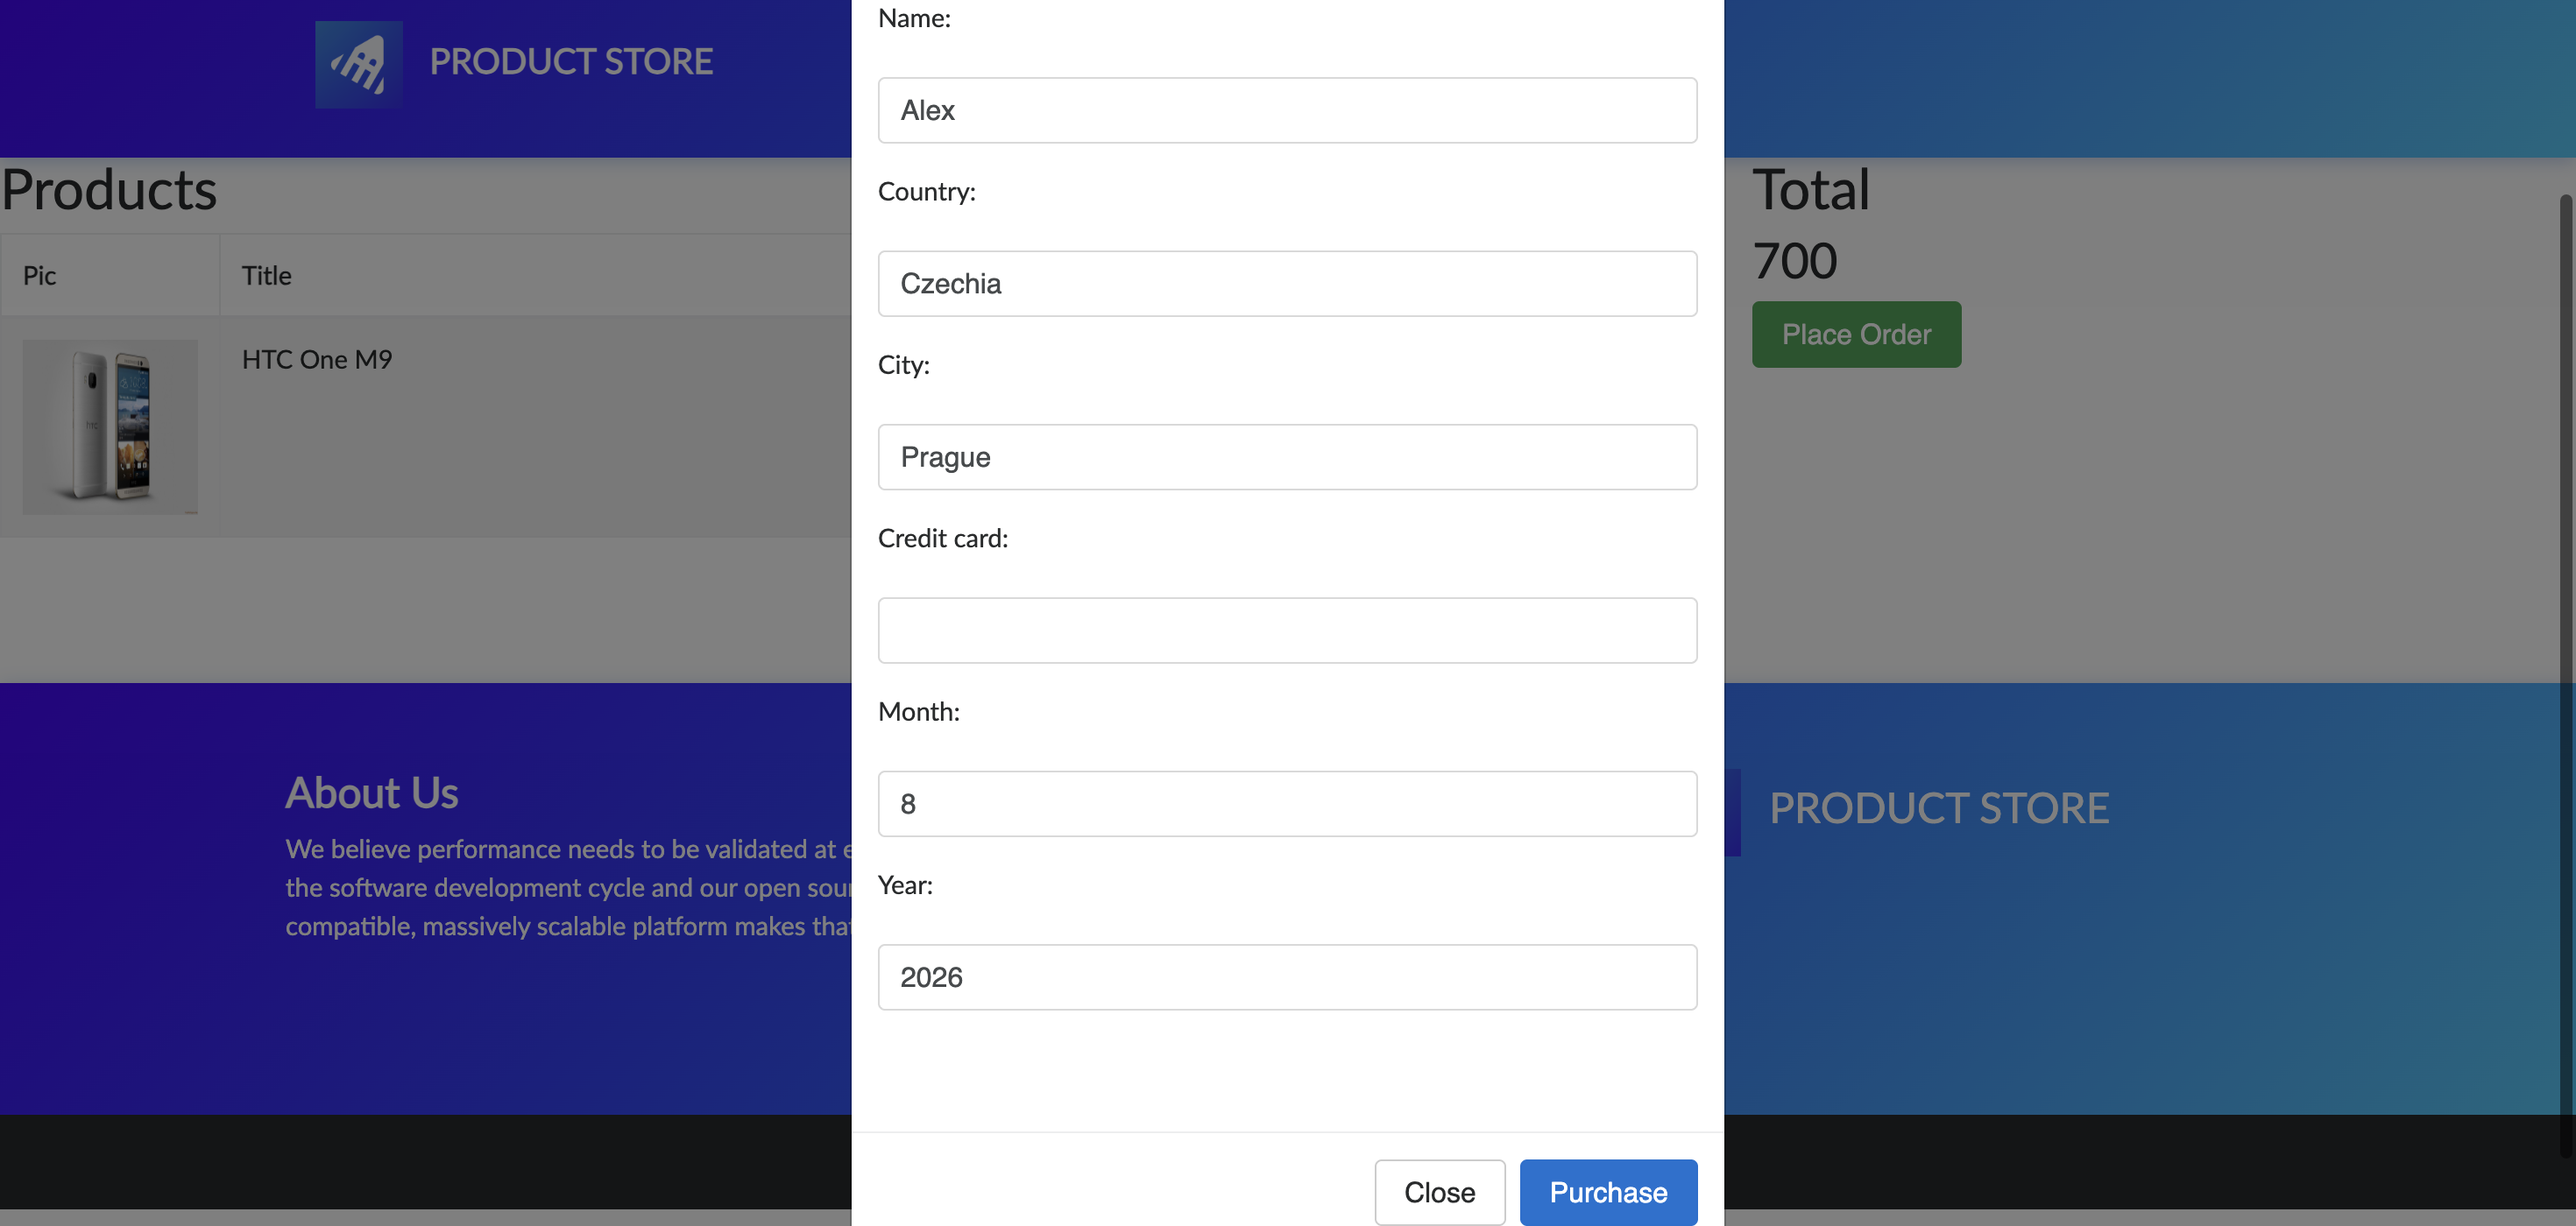
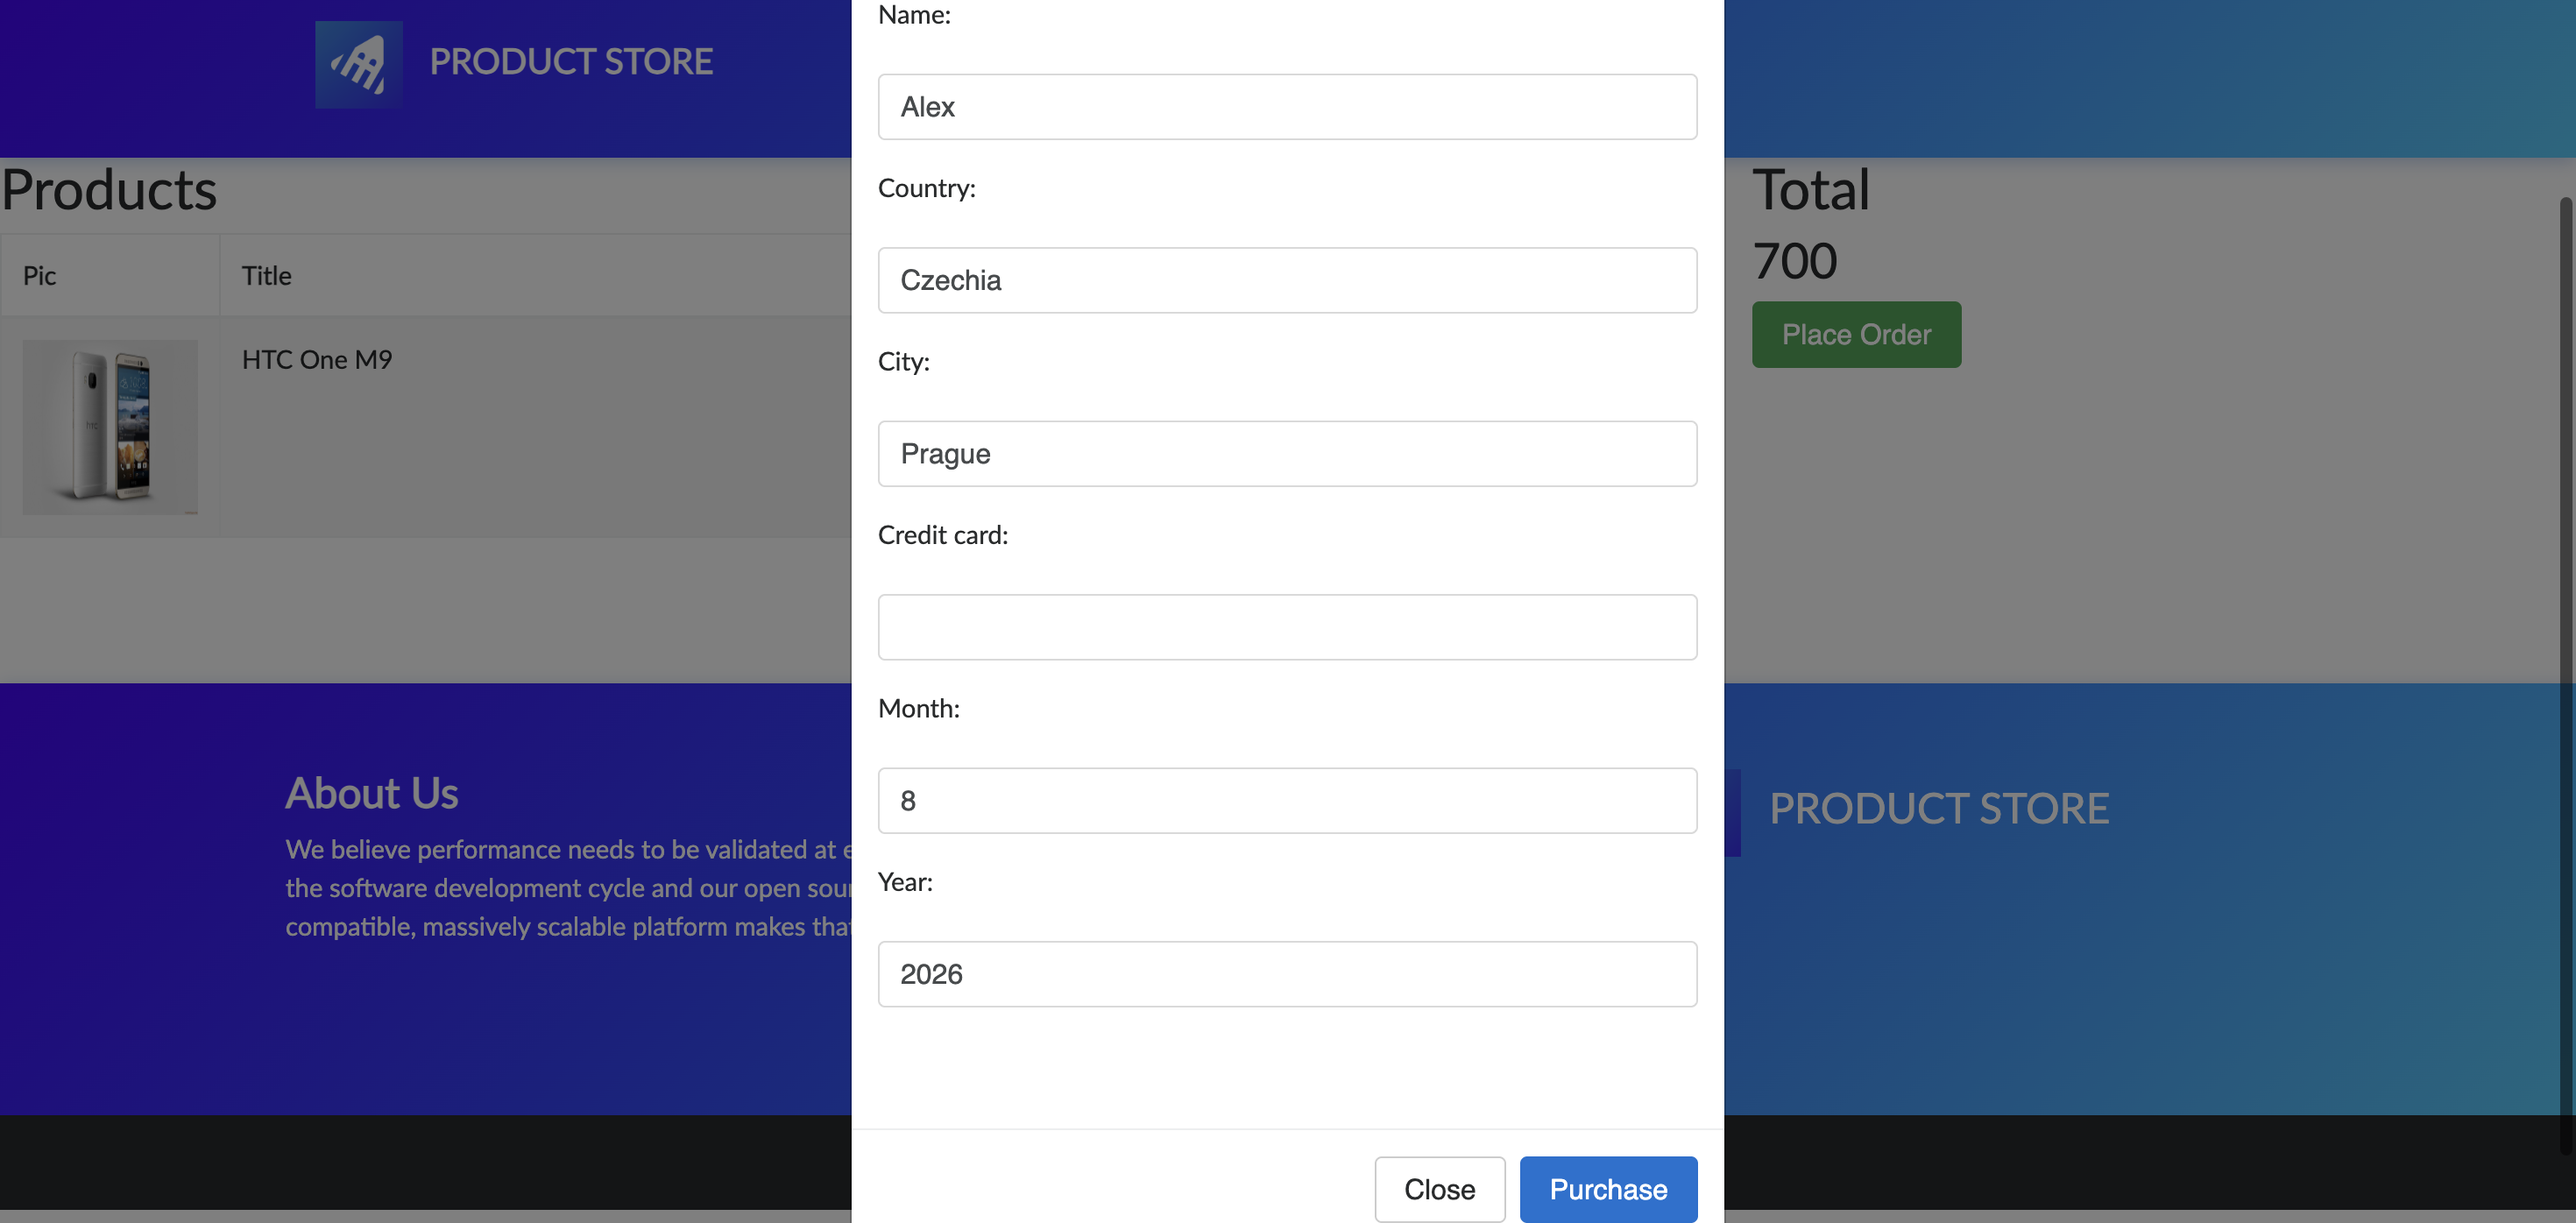
Day 103: Refactor integration tests with helper functions and organize demoblaze test suite

diff --git a/days-91-180/demoblaze/utils.py b/days-91-180/demoblaze/utils.py
@@ -2,6 +2,9 @@ from selenium import webdriver
 from selenium.webdriver.common.by import By
 from selenium.webdriver.support.ui import WebDriverWait
 from selenium.webdriver.support import expected_conditions as EC
+import sqlite3
+import stripe
+import config as cfg
 
 def open_site(driver):
     # Navigate to the target website and maximize the browser window
@@ -98,3 +101,45 @@ def setup_and_add_to_cart(driver, wait, product_name):
     navigate_to_cart(driver, wait)
     click_place_order(driver, wait)
 
+# --- NEW HELPER FUNCTIONS (Day 103) ---
+
+def extract_product_details(driver, wait):
+    """Extract product name and price in cents from product details page"""
+    name = wait.until(
+        EC.visibility_of_element_located((By.XPATH, "//h2[@class='name']"))
+    ).text
+
+    price_text = wait.until(
+        EC.visibility_of_element_located((By.XPATH, "//h3[@class='price-container']"))
+    ).text.split()[0]
+
+    price_cents = int(price_text.replace("$", "")) * 100
+    return name, price_cents
+
+
+def create_stripe_charge(amount, description, card_token="tok_visa"):
+    """Create a charge in Stripe API and handle declined card exceptions"""
+    stripe.api_key = cfg.STRIPE_API_KEY
+    try:
+        charge = stripe.Charge.create(
+            amount=amount,
+            currency="usd",
+            source=card_token,
+            description=description
+        )
+        return charge
+    except stripe.error.CardError as e:
+        charge_id = e.error.charge
+        return stripe.Charge.retrieve(charge_id)
+
+
+def insert_payment_to_db(charge_id, amount, status, description):
+    """Insert payment record into SQLite database"""
+    conn = sqlite3.connect(cfg.DATABASE_PATH)
+    cursor = conn.cursor()
+    cursor.execute(
+        "INSERT INTO payments (payment_id, amount, status, description) VALUES (?, ?, ?, ?)",
+        (charge_id, amount, status, description)
+    )
+    conn.commit()
+    conn.close()

diff --git a/days-91-180/demoblaze/test_payment_error_handling.py b/days-91-180/demoblaze/test_payment_error_handling.py
@@ -1,0 +1,39 @@
+from selenium.webdriver.support.ui import WebDriverWait
+import sqlite3
+import config as cfg
+import utils
+
+def test_payment_error_handling(browser):
+    wait = WebDriverWait(browser, 10)
+
+    # 1. UI Automation
+    utils.open_site(browser)
+    utils.click_product_by_name(browser, wait, "HTC One M9")
+    utils.add_product_to_cart(browser, wait)
+
+    # 2. Extract Details
+    product_name, ui_price = utils.extract_product_details(browser, wait)
+
+    # 3. Create Declined Charge via Helper
+    charge = utils.create_stripe_charge(ui_price, product_name, card_token="tok_chargeDeclined")
+
+    # 4. Assert Stripe Status
+    assert charge.status == "failed"
+
+    # 5. Insert Failed Payment to DB via Helper
+    utils.insert_payment_to_db(charge.id, charge.amount, charge.status, charge.description)
+
+    # 6. Verify in DB
+    conn = sqlite3.connect(cfg.DATABASE_PATH)
+    cursor = conn.cursor()
+    cursor.execute("SELECT status, amount FROM payments WHERE payment_id = ?", (charge.id,))
+    db_row = cursor.fetchone()
+
+    assert db_row is not None
+    assert db_row[0] == charge.status == "failed"
+    assert db_row[1] == ui_price
+
+    # Cleanup
+    cursor.execute("DELETE FROM payments WHERE payment_id = ?", (charge.id,))
+    conn.commit()
+    conn.close()

diff --git a/days-91-180/demoblaze/test_full_payment_integration.py b/days-91-180/demoblaze/test_full_payment_integration.py
@@ -1,0 +1,35 @@
+from selenium.webdriver.support.ui import WebDriverWait
+import sqlite3
+import config as cfg
+import utils
+
+def test_full_payment_integration(browser):
+    wait = WebDriverWait(browser, 10)
+
+    # 1. UI Automation
+    utils.open_site(browser)
+    utils.click_product_by_name(browser, wait, "HTC One M9")
+    utils.add_product_to_cart(browser, wait)
+
+    # 2. Extract Product Details via Helper
+    product_name, ui_price = utils.extract_product_details(browser, wait)
+
+    # 3. Stripe API Charge via Helper
+    charge = utils.create_stripe_charge(ui_price, product_name, card_token="tok_visa")
+
+    # 4. Insert into Database via Helper
+    utils.insert_payment_to_db(charge.id, charge.amount, charge.status, charge.description)
+
+    # 5. DB Verification & Assertion
+    conn = sqlite3.connect(cfg.DATABASE_PATH)
+    cursor = conn.cursor()
+    cursor.execute("SELECT amount, description FROM payments WHERE payment_id = ?", (charge.id,))
+    db_row = cursor.fetchone()
+
+    assert ui_price == charge.amount == db_row[0]
+    assert product_name == charge.description == db_row[1]
+
+    # Cleanup
+    cursor.execute("DELETE FROM payments WHERE payment_id = ?", (charge.id,))
+    conn.commit()
+    conn.close()

diff --git a/days-91-180/demoblaze/test_ecommerce_flow.py b/days-91-180/demoblaze/test_ecommerce_flow.py
@@ -4,7 +4,8 @@ from selenium.webdriver.common.by import By
 from selenium.webdriver.support.ui import WebDriverWait
 from selenium.webdriver.support import expected_conditions as EC
 
-import ecommerce_utils as utils
+import utils
+import config as cfg
 
 
 def test_add_product_to_cart(browser):

diff --git a/days-91-180/demoblaze/test_payment_checkout.py b/days-91-180/demoblaze/test_payment_checkout.py
@@ -4,7 +4,8 @@ from selenium.webdriver.common.by import By
 from selenium.webdriver.support.ui import WebDriverWait
 from selenium.webdriver.support import expected_conditions as EC
 
-import ecommerce_utils as utils
+import utils
+import config as cfg
 
 
 

diff --git a/days-91-180/README.md b/days-91-180/README.md
@@ -12,20 +12,19 @@ The focus of this phase is moving from simple scripts to production-grade automa
 * Extracting common actions into helper utility modules (`ecommerce_utils.py`) to keep tests clean and DRY (Don't Repeat Yourself).
 * Automating both positive happy-paths and negative validation scenarios (e.g., checkout without payment details).
 
----
-
 ## 🧪 Tests & Files Directory
 
-* [day91.py](day91.py)  - Initial basic Selenium automation script for DemoBlaze (product selection and cart interaction).
-* [day92.py](day92.py) - Refactored script with zero hardcoded sleeps using dynamic explicit wait conditions.
-* [ecommerce_utils.py](ecommerce_utils.py) - Reusable helper module containing UI interaction functions (navigation, product selection, checkout, alert handling).
-* [test_ecommerce_flow.py](test_ecommerce_flow.py) - Pytest suite for e-commerce cart management (adding items, verifying cart content, removing items with `staleness_of` assertions).
-* [test_payment_checkout.py](test_payment_checkout.py) - Pytest suite for order completion (filling checkout forms, validating purchase modals, and handling missing payment detail alerts).
-* [conftest.py](conftest.py) - Pytest configuration module providing session-scoped `browser` fixture and automated test logging (`autouse=True`)
+* [demoblaze/](demoblaze/) - Dedicated directory containing modular test suites and utilities for the DemoBlaze e-commerce platform.
+  * [demoblaze/utils.py](demoblaze/utils.py) - Reusable helper functions for UI navigation, data extraction, Stripe API integration, and SQLite database logging.
+  * [demoblaze/config.py](demoblaze/config.py) - Environment configurations, base URLs, element selectors, and database paths.
+  * [demoblaze/test_ecommerce_flow.py](demoblaze/test_ecommerce_flow.py) - Pytest suite for e-commerce cart management (adding items, verifying cart content, removing items with `staleness_of` assertions).
+  * [demoblaze/test_payment_checkout.py](demoblaze/test_payment_checkout.py) - Order completion suite validating purchase modals and mandatory field alerts.
+  * [demoblaze/test_full_payment_integration.py](demoblaze/test_full_payment_integration.py) - Full 3-layer integration test connecting Selenium UI automation, Stripe API charges, and SQLite DB assertions.
+  * [demoblaze/test_payment_error_handling.py](demoblaze/test_payment_error_handling.py) - Multi-layer error handling test simulating declined cards via Stripe API and verifying DB logging.
+* [conftest.py](conftest.py) - Pytest configuration module providing session-scoped `browser` fixture and automated test logging (`autouse=True`).
+* [day91.py](day91.py) - Initial basic Selenium automation script for DemoBlaze.
+* [day92.py](day92.py) - Refactored automation script using dynamic explicit waits.
 * [day100-milestone.md](day100-milestone.md) - Milestone reflection documenting 100 days of consistency, 226 total commits, skill progress, and roadmap for the next 80 days.
-* [test_full_payment_integration.py](test_full_payment_integration.py) - End-to-end integration test connecting Selenium UI automation, Stripe API test charges, and SQLite database verification.
-* [test_payment_error_handling.py](test_payment_error_handling.py) - Error handling integration test across UI, Stripe API (declined card simulation), and SQLite DB status verification.
----
 
 ## 🚀 How to Run Tests
 
@@ -47,6 +46,9 @@ pytest . -v -s
 * **Dynamic DOM Assertions:** Verifying element state changes and item counts after cart deletions.
 * **Full-Stack Integration Testing:** Combined Web UI data extraction, Stripe API payment processing, and SQLite DB verification into a single test asserting data integrity across all three layers (`UI Price == Stripe Amount == DB Amount`).
 * **Multi-Layer Error Handling:** Validated failed payment workflows end-to-end by handling `stripe.error.CardError` exceptions, extracting failed charge IDs, and asserting consistent failure statuses (`failed`) across API responses and database records.
+* **Modular Project Architecture:** Structured test suites into application-specific directories (`/demoblaze/`), separating reusable helpers, configurations, and test modules for cleaner maintainability.
+
+
 
 ## 📸 Test Execution Evidence & Screenshots
 [demoblaze_cart.png](demoblaze_cart.png) - Verification of item successfully added to the shopping cart.

diff --git a/days-91-180/demoblaze/README.md b/days-91-180/demoblaze/README.md
@@ -1,0 +1,22 @@
+# 🛒 DemoBlaze Automation Test Suite
+
+This directory contains the end-to-end automation test suite for the DemoBlaze e-commerce platform.
+
+---
+
+## 📁 Directory Structure
+* `utils.py` - Core helper functions for UI navigation, data extraction, Stripe API integration, and SQLite database recording.
+* `config.py` - Environment configuration, base URLs, element selectors, and DB paths.
+* `test_ecommerce_flow.py` - UI tests for product selection, cart management, and item removal assertions.
+* `test_payment_checkout.py` - UI validation tests for order checkout modal and missing card info popups.
+* `test_full_payment_integration.py` - 3-layer integration test (UI price extraction -> Stripe charge -> SQLite verification).
+* `test_payment_error_handling.py` - Negative flow test simulating declined card handling via Stripe API and database logging.
+
+---
+
+## 🚀 How to Run Tests
+
+Run the full DemoBlaze test suite from the `days-91-180` root directory:
+
+```bash
+pytest demoblaze -v -s
